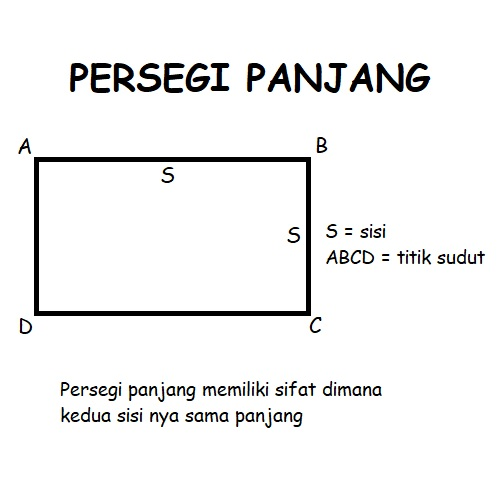
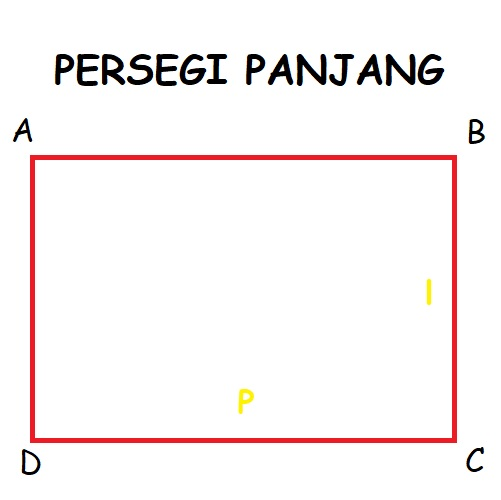
Fourth Step

Changed region(s): [[0.0301, 0.2405, 0.992, 0.9619], [0.0902, 0.0902, 0.9018, 0.2104], [0.9319, 0.2405, 0.9619, 0.3006]]

diff --git a/Index.html b/Index.html
@@ -11,15 +11,14 @@
 <body class="body">
     <header class="judul-besar">
         <p>
-            <strong>Katik</strong> Kalkulator Matematik
-        </p>
+            <strong>Katik</strong> Kalkulator Matematik</p>
     </header>
 
     <main>
         <section class="welcome-page">
-            <p id="welcome">Welcome to Katik</p>
-            <p>Halo! Selamat datang di Katik.</p>
-            <p>Website penambah ilmu pengetahuan dan pesawat yang akan mempermudah kehidupan mu.</p>
+            <h1 id="welcome">Welcome to Katik</h1>
+            <p class="intro">Halo! Selamat datang di Katik.</p>
+            <p class="intro">Website penambah ilmu pengetahuan dan pesawat yang akan mempermudah kehidupan mu.</p>
             <div class="link">
                 <a href="#Persegi" id="link1">Persegi</a>
                 <a href="#Persegi-Panjang" id="link2">Persegi Panjang</a>
@@ -30,32 +29,39 @@
                 <h1 class="title">Persegi</h1>
                 <p>Persegi adalah bentuk geometris yang sangat simetris. Persegi memiliki empat sisi yang sama panjang dan empat sudut yang sama besar (90 derajat). Kesempurnaan ini membuatnya sangat penting dalam geometri dan desain. Dalam bidang matematika, persegi sangat sering di gunakan untuk melambangkan satuan luas seperti meter persegi, centimeter persegi, dan yang lainnya.
                 </p>
-                <img src="Asset\Persegi.jpg" alt="Persegi"> Gambar Persegi
+                <img src="Asset\Persegi.jpg" alt="Persegi" class="gambar-persegi"> 
+                <p id="keterangan-gambar-persegi">Gambar Persegi</p>
                     <div class="container">
                         <div class="luas-persegi">
-                            <h1>Luas Persegi</h1>
+                            <h1>A. Luas Persegi</h1>
                             <p>Rumus untuk menghitung luas persegi adalah:</p>
                             <p class="rumus"><strong>L = S x S</strong></p>
                             <p>Keterangan:</p>
                             <p>L = Luas</p>
                             <P>S = Sisi</P>
-                            <h1 id="title-hitung-luas-persegi">Hitung Luas Persegi</h1>
-                            <input type="number" placeholder="Nilai S" oninput="toggleButton()">
-                            <button id="calculateButton" onclick="calculateArea()">Hitung</button>
-                            <div class="result" id="result"></div>
+                            <div class="section-hitungan">
+                                <p id="title-counting"><b>Hitung Luas Persegi</b></p>
+                                <input type="number" placeholder="Nilai S" oninput="toggleButton()">
+                                <button id="calculateButton" onclick="calculateArea()">Hitung</button>
+                                <div class="result" id="result">
+                            </div>
                         </div>
+                    </div>
                         <div class="keliling">
-                            <h1>Keliling Persegi</h1>
+                            <h1>B. Keliling Persegi</h1>
                             <p>Rumus untuk menghitung keliling persegi adalah:</p>
                             <p class="rumus"><strong>K = 4 x S</strong></p>
                             <p>Keterangan:</p>
                             <p>K = Keliling</p>
                             <P>S = Sisi</P>
-                            <h1 id="title-hitung-keliling-persegi">Hitung Keliling Persegi</h1>
-                            <input type="number" placeholder="Nilai S" oninput="toggleButton()">
-                            <button id="calculateButton" onclick="calculateArea()">Hitung</button>
-                            <div class="result" id="result"></div>
+                            <div class="section-hitungan">
+                                <p id="title-counting"><b>Hitung Keliling Persegi</b></p>
+                                <input type="number" placeholder="Nilai S" oninput="toggleButton()">
+                                <button id="calculateButton" onclick="calculateArea()">Hitung</button>
+                                <div class="result" id="result">
+                            </div>
                         </div>
+                    </div>
                     </div>
             </div>
 
@@ -63,33 +69,41 @@
                 <h1 class="title">Persegi Panjang</h1>
                 <p>Persegi adalah bentuk geometris yang sangat simetris. Persegi memiliki empat sisi yang sama panjang dan empat sudut yang sama besar (90 derajat). Kesempurnaan ini membuatnya sangat penting dalam geometri dan desain. Dalam bidang matematika, persegi sangat sering di gunakan untuk melambangkan satuan luas seperti meter persegi, centimeter persegi, dan yang lainnya.
                 </p>
-                <img src="Asset\Persegi Panjang.jpg" alt="Persegi-Panjang"> Gambar Persegi Panjang
+                <img src="Asset\Persegi Panjang.jpg" alt="Persegi-Panjang" class="gambar-persegi-panjang"> 
+                <p id="keterangan-gambar-persegi">Gambar Persegi Panjang</p>
                     <div class="container">
                         <div class="luas-persegi-panjang">
-                            <h1>Luas Persegi Panjang1>
+                            <h1>A. Luas Persegi Panjang</h1>
                             <p>Rumus untuk menghitung luas persegi panjang adalah:</p>
                             <p class="rumus"><strong>L = P x l</strong></p>
                             <p>Keterangan:</p>
                             <p>L = Luas</p>
                             <P>P = Panjang</P>
                             <p>l = Lebar</p>
-                            <h1 id="title-hitung-luas-persegi-panjang">Hitung Luas Persegi Panjang</h1>
-                            <input type="number" placeholder="Nilai S" oninput="toggleButton()">
-                            <button id="calculateButton" onclick="calculateArea()">Hitung</button>
-                            <div class="result" id="result"></div>
+                            <div class="section-hitungan">
+                                <p id="title-counting"><b>Hitung Luas Persegi Panjang</b></p>
+                                <input type="number" placeholder="Nilai S" oninput="toggleButton()">
+                                <button id="calculateButton" onclick="calculateArea()">Hitung</button>
+                                <div class="result" id="result">
+                            </div>
                         </div>
+                    </div>
                         <div class="keliling">
-                            <h1>Keliling Persegi</h1>
-                            <p>Rumus untuk menghitung keliling persegi adalah:</p>
-                            <p class="rumus"><strong>K = 4 x S</strong></p>
+                            <h1>B. Keliling Persegi Panjang</h1>
+                            <p>Rumus untuk menghitung keliling persegi panjang adalah:</p>
+                            <p class="rumus"><strong>K = 2 x (P+l)</strong></p>
                             <p>Keterangan:</p>
                             <p>K = Keliling</p>
-                            <P>S = Sisi</P>
-                            <h1 id="title-hitung-keliling-persegi">Hitung Keliling Persegi</h1>
-                            <input type="number" placeholder="Nilai S" oninput="toggleButton()">
-                            <button id="calculateButton" onclick="calculateArea()">Hitung</button>
-                            <div class="result" id="result"></div>
+                            <P>P = Panjang</P>
+                            <p>l = Lebar</p>
+                            <div class="section-hitungan">
+                                <p id="title-counting"><b>Hitung Keliling Persegi Panjang</b></p>
+                                <input type="number" placeholder="Nilai S" oninput="toggleButton()">
+                                <button id="calculateButton" onclick="calculateArea()">Hitung</button>
+                                <div class="result" id="result">
+                            </div>
                         </div>
+                    </div>
                     </div>
             </div>
     </main>

diff --git a/CSS/Style.css b/CSS/Style.css
@@ -1,16 +1,16 @@
 /*Ini CSS External*/
 .body {
-    background-color: lightgrey;
+    background-color: whitesmoke;
     padding: 20px;
-
+    font-family: Arial, Helvetica, sans-serif;
 
 }
 .judul-besar {
         text-align: center;
-        background-color: orangered;
+        background-color: red;
         font-family: Arial, Helvetica, sans-serif;
         color: azure;
-        padding: 2px;
+        padding: 10px;
         margin: 0px;
         justify-content: center;
         flex-wrap: nowrap;
@@ -18,17 +18,108 @@
         font-size: large;
 }
 
-.kalimat-pembuka {
+.welcome-page {
+    background-color: white;
+    padding: 20px;
+    border: 1px;
+    margin-top: 30px;
+}
+
+#welcome {
     text-align: center;
+}
+
+.intro {
     margin-top: 0px;
     margin-bottom: 0px;
-}
-.head {
     text-align: center;
-    margin: 0px;
-
 }
 
-.keterangan-persegi1 {
-    text-align-last: left;
+.title {
+    background-color: red;
+    color: white;
+    text-align: center;
+    padding: 30px;
+}
+
+.link {
+    display: inline-flex;
+    border: 1px solid;
+    border-radius: 5px;
+    overflow: hidden;
+}
+
+#link1 {
+    display: inline-block;
+    padding: 10px 20px;
+    text-align: center;
+    text-decoration: none;
+    background-color: red;
+    color: white;
+    border: none;
+    cursor: pointer;
+    transition: cubic-bezier(0.075, 0.82, 0.165, 1);
+}
+#link1:hover {
+    background-color: palevioletred;
+    color: white;
+}
+#link2 {
+    display: inline-block;
+    padding: 10px 20px;
+    text-align: center;
+    text-decoration: none;
+    background-color: red;
+    color: white;
+    border: none;
+    cursor: pointer;
+}
+
+.main-content {
+    background-color: white;
+    padding: 30px;
+    border: 1px;
+}
+
+.gambar-persegi {
+    width: 300px;
+    height: auto;
+    display: block;
+    margin: 0 auto;
+    text-align: center;
+}
+#keterangan-gambar-persegi {
+    text-align: center;
+    margin-top: 1%;
+}
+
+.gambar-persegi-panjang {
+    width: 300px;
+    height: auto;
+    display: block;
+    margin: 0 auto;
+    text-align: center;
+}
+#keterangan-gambar-persegi-panjang {
+    text-align: center;
+    margin-top: 1%;
+}
+
+.rumus {
+    text-align: center;
+}
+
+.section-hitungan {
+    text-align: center;
+    background-color: red;
+    border: 1px;
+    color: white;
+    padding: 10px;
+    margin-left: 170px;
+    margin-right: 170px;
+}
+
+#title-counting {
+    margin: 0px;
+    margin-bottom: 5px;
 }

diff --git a/Benkyo-File/new.html b/Benkyo-File/new.html
@@ -1,0 +1,30 @@
+<!DOCTYPE html>
+<html lang="en">
+<head>
+    <meta charset="UTF-8">
+    <meta name="viewport" content="width=device-width, initial-scale=1.0">
+    <title>Javascript Learn</title>
+    <script src"JV.js"></script>
+</head>
+<body>
+    <input id="angka-pertama" name="angka-pertama" placeholder="Angka Pertama" type="number">
+    <br>
+    <input id="angka-kedua" name="angka-kedua" placeholder="Angka Kedua" type="number">
+    <br>
+    <button onclick="peringatan()">ini adalah tombol</button>
+
+
+
+    <script>
+        function peringatan(){
+            let angkaPertama = document.getElementById("angka-pertama").value;
+            let angkaKedua = document.getElementById("angka-kedua").value;
+            let hasilPenjumlahan = parseInt(angkaPertama) + parseInt(angkaKedua)
+
+            console.log(hasilPenjumlahan);
+
+            document.write("Hasilnya adalah" + " " +hasilPenjumlahan)
+        }
+    </script>
+</body>
+</html>
